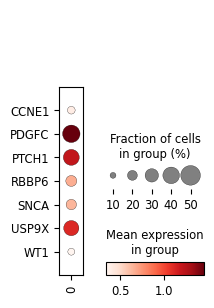
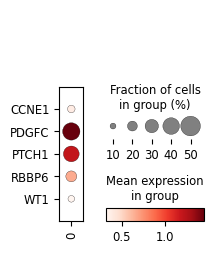
commit

diff --git a/README.md b/README.md
@@ -46,9 +46,9 @@ Data processing.  <i>scRNA-seq</i>: data in each sample were first filtered base
 
 ## III. Results
 
-<i>Single-cell analysis</i>.  <i>scRNA-seq</i>.  A total of 10 priamry breast tumor samples consisting of 10,318 cells and 2,000 genes were analyzed.  Distinct cell types were identified by leiden clustering.  There were 7 cell type clusters overall, namely fibroblast cell, luminal L1 cell, luminal L2 cell, macrophage, plasma cell, T cell, and vascular endothelial cell (Figure 1A).  Individual sample cells were then mapped to the corresponding cell type clusters (Figure 1B).  Biomarker genes were used to verify the present cluster identity: CD3E for T cell; COL1A2 for fibroblast cell; CD4 for macrophage; PECAM1 for vascular endothelial cell; CLDN4 for luminal L1 cell (Nguyen <i>et al.</i>, 2018); ANKRD30A for luminal L2 cell (Nguyen <i>et al.</i>, 2018); and IGHG1 for plasma cell (Figure 1C).  By profiling gene expression, heterogenity in expression levels were observed in different cell types (Figure 1D).  <i>scATAC-seq</i>.  A MCF-7 cell line sample consisting of 1,643 cells and 2,000 genes was analyzed.  BCAS1 (Dave <i>et al.</i>, 2023), SULF2 (Zhu <i>et al.</i>, 2016), and ZNF27 (Littlepage <i>et al.</i>, 2012) were used as biomarkers for MCF-7 (Figure 2A).  Noticeably, there were some cells there were low-expressed or not labeled by the marker genes.  The likely explanation may be due to the additon of DMSO which had been reported to cause changes in cell state in reponse to stress (Tuncer <i>et al.</i>, 2018; Sangweni <i>et al.</i>, 2021).  The results show heterogenity within the cell type (Figure 2B).
+<i>Single-cell analysis</i>.  <i>scRNA-seq</i>.  A total of 10 priamry breast tumor samples consisting of 10,318 cells and 2,000 genes were analyzed.  Distinct cell types were identified by leiden clustering.  There were 7 cell type clusters overall, namely fibroblast cell, luminal L1 cell, luminal L2 cell, macrophage, plasma cell, T cell, and vascular endothelial cell (Figure 1A).  Individual sample cells were then mapped to the corresponding cell type clusters (Figure 1B).  Biomarker genes were used to verify the present cluster identity: CD3E for T cell; COL1A2 for fibroblast cell; CD4 for macrophage; PECAM1 for vascular endothelial cell; CLDN4 for luminal L1 cell (Nguyen <i>et al.</i>, 2018); ANKRD30A for luminal L2 cell (Nguyen <i>et al.</i>, 2018); and IGHG1 for plasma cell (Figure 1C).  By profiling gene expression, heterogenity in expression levels were observed in different cell types (Figure 1D).  <i>scATAC-seq</i>.  A MCF-7 cell line sample consisting of 1,589 cells and 2,000 genes was analyzed.  BCAS1 (Dave <i>et al.</i>, 2023), SULF2 (Zhu <i>et al.</i>, 2016), and ZNF27 (Littlepage <i>et al.</i>, 2012) were selected as biomarkers for MCF-7 (Figure 2A).  Noticeably, there were some cells there were low-expressed or not labeled by the marker genes.  The likely explanation may be due to the additon of DMSO which had been reported to cause changes in cell state in response to stress (Tuncer <i>et al.</i>, 2018; Sangweni <i>et al.</i>, 2021).  The results show heterogenity within the MCF-7 cell line (Figure 2B).
 
-<i>APA analysis</i>.  Highly variable expressed genes were matched to the terminal region (TR) genes in PolyADB-v3x-LR database (https://github.com/wcjohnchen/database).  A complete list of TR genes found in scRNA-seq (1,864) and scATAC-seq data (1,763) can be viewed using a dotplot in analyze_data_sc_RNASeq.ipynb and analyze_data_sc_ATACSeq.ipynb, respectively.  In particular, there are a number of 3'UTR APA genes (104) associated with onocogenes, tumor suppressor genes, and APA regulatory factors that have been reported to play known roles in breast cancer (review paper: <i>Qiao et al.</i>, 2024).  Among those genes, AGR2, CCDN1, CDKN2C, COL1A2, CTNNBIP1, PIK3R1, PMEPA1, RBBP6, TIMP3, and TRPS1 were found in scRNA-seq data (Figure 3A); likewise, CCNE1, PDGFC, PTCH1, RBBP6, SNCA, USP9X, and WT1 were found in scATAC-seq data (Figure 3B).  These APA genes displayed distinct expression patterns specific to their cell types.
+<i>APA analysis</i>.  Highly variable expressed genes were matched to the terminal region (TR) genes in PolyADB-v3x-LR database (https://github.com/wcjohnchen/database).  A complete list of TR genes found in scRNA-seq (1,864) and scATAC-seq data (1,770) can be viewed using a dotplot in analyze_data_sc_RNASeq.ipynb and analyze_data_sc_ATACSeq.ipynb, respectively.  In particular, there are a number of 3'UTR APA genes (104) associated with onocogenes, tumor suppressor genes, and APA regulatory factors that have been reported to play known roles in breast cancer (review paper: <i>Qiao et al.</i>, 2024).  Among those genes, AGR2, CCDN1, CDKN2C, COL1A2, CTNNBIP1, PIK3R1, PMEPA1, RBBP6, TIMP3, and TRPS1 were found in scRNA-seq data (Figure 3A); likewise, CCNE1, PDGFC, PTCH1, RBBP6, and WT1 were found in scATAC-seq data (Figure 3B).  These APA genes displayed distinct expression patterns specific to their cell types.
 
 
 <br>
@@ -88,7 +88,7 @@ Figure 2.  scATAC-seq MCF-7 cell line sample.  (A) Identification by biomarker g
 
 <br>
 
-Figure 3.  Dot plots of previously-reported breast cancer 3'UTR APA genes (Qiao <i>et al.</i>, 2024) in (A) cell types of primary breast tumors using scRNA-seq, and (B) MCF-7 cells using scATAC-seq.
+Figure 3.  Dot plots of previously-reported breast cancer 3'UTR APA genes (Qiao <i>et al.</i>, 2024) in (A) cell types in primary breast tumor samples using scRNA-seq, and (B) MCF-7 sample using scATAC-seq.
 
 (A)
 
